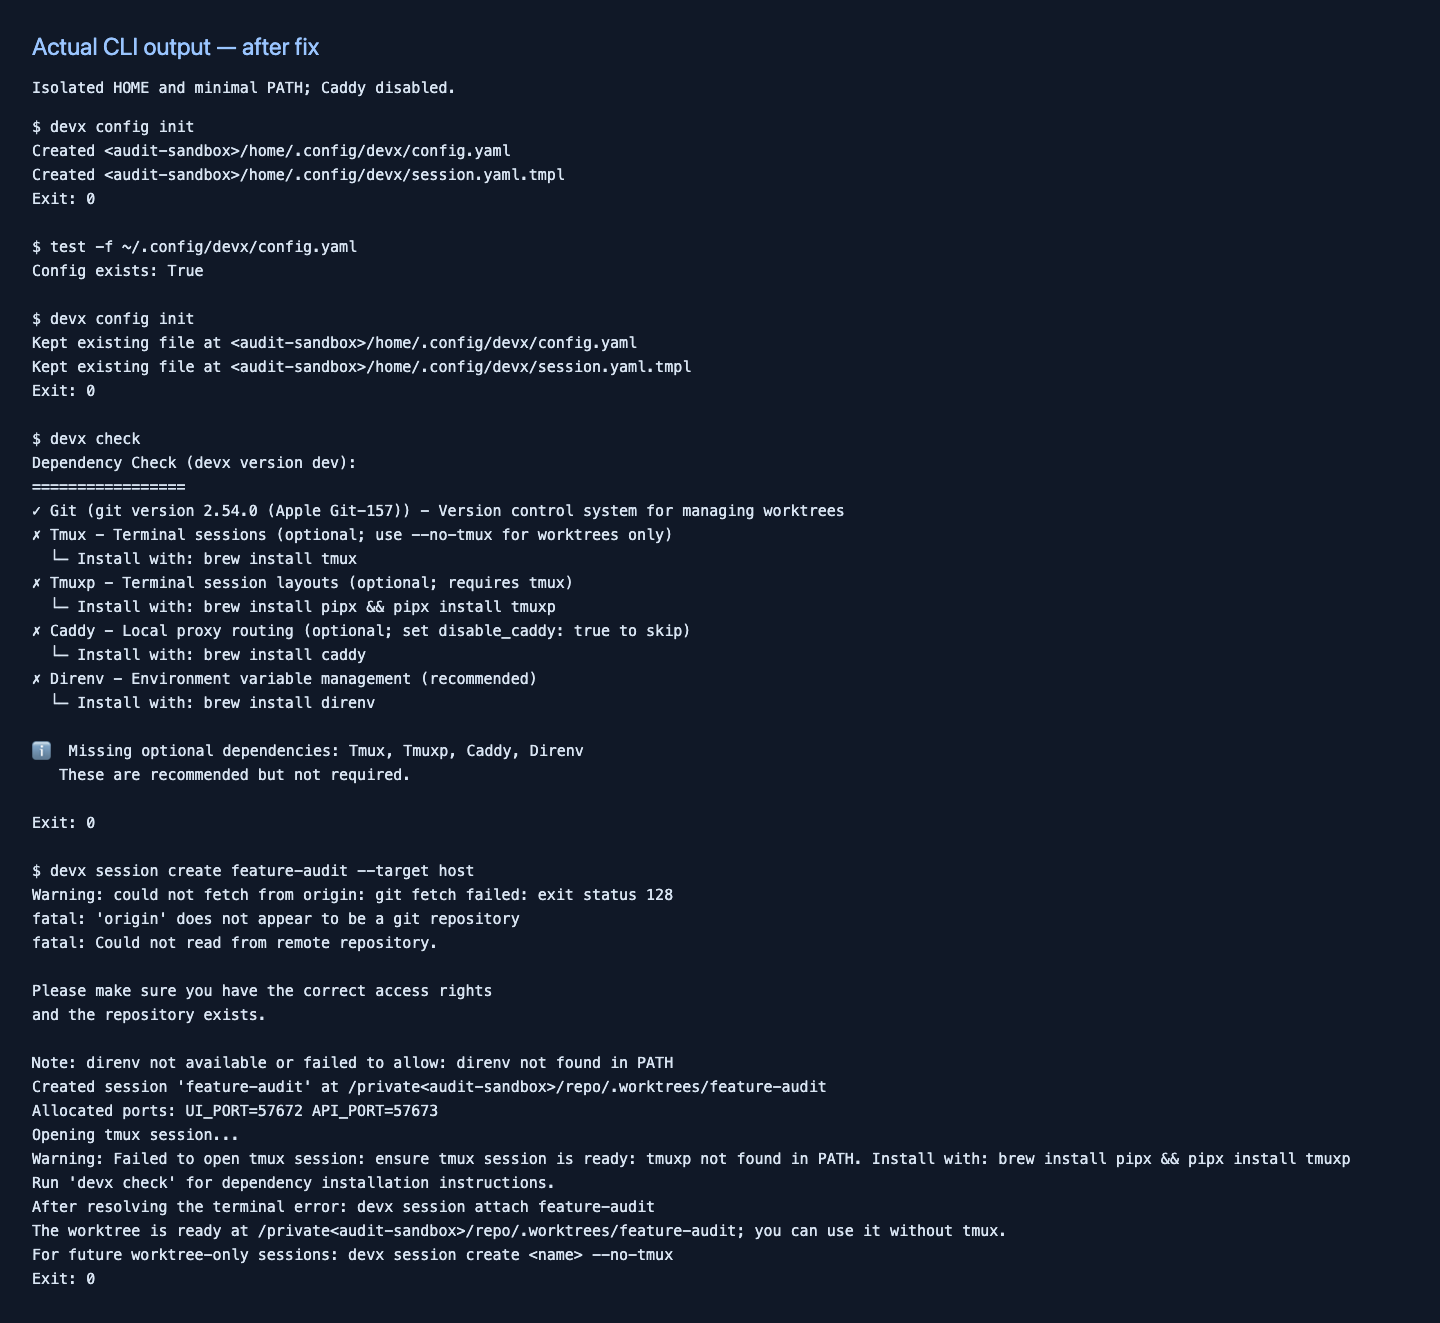
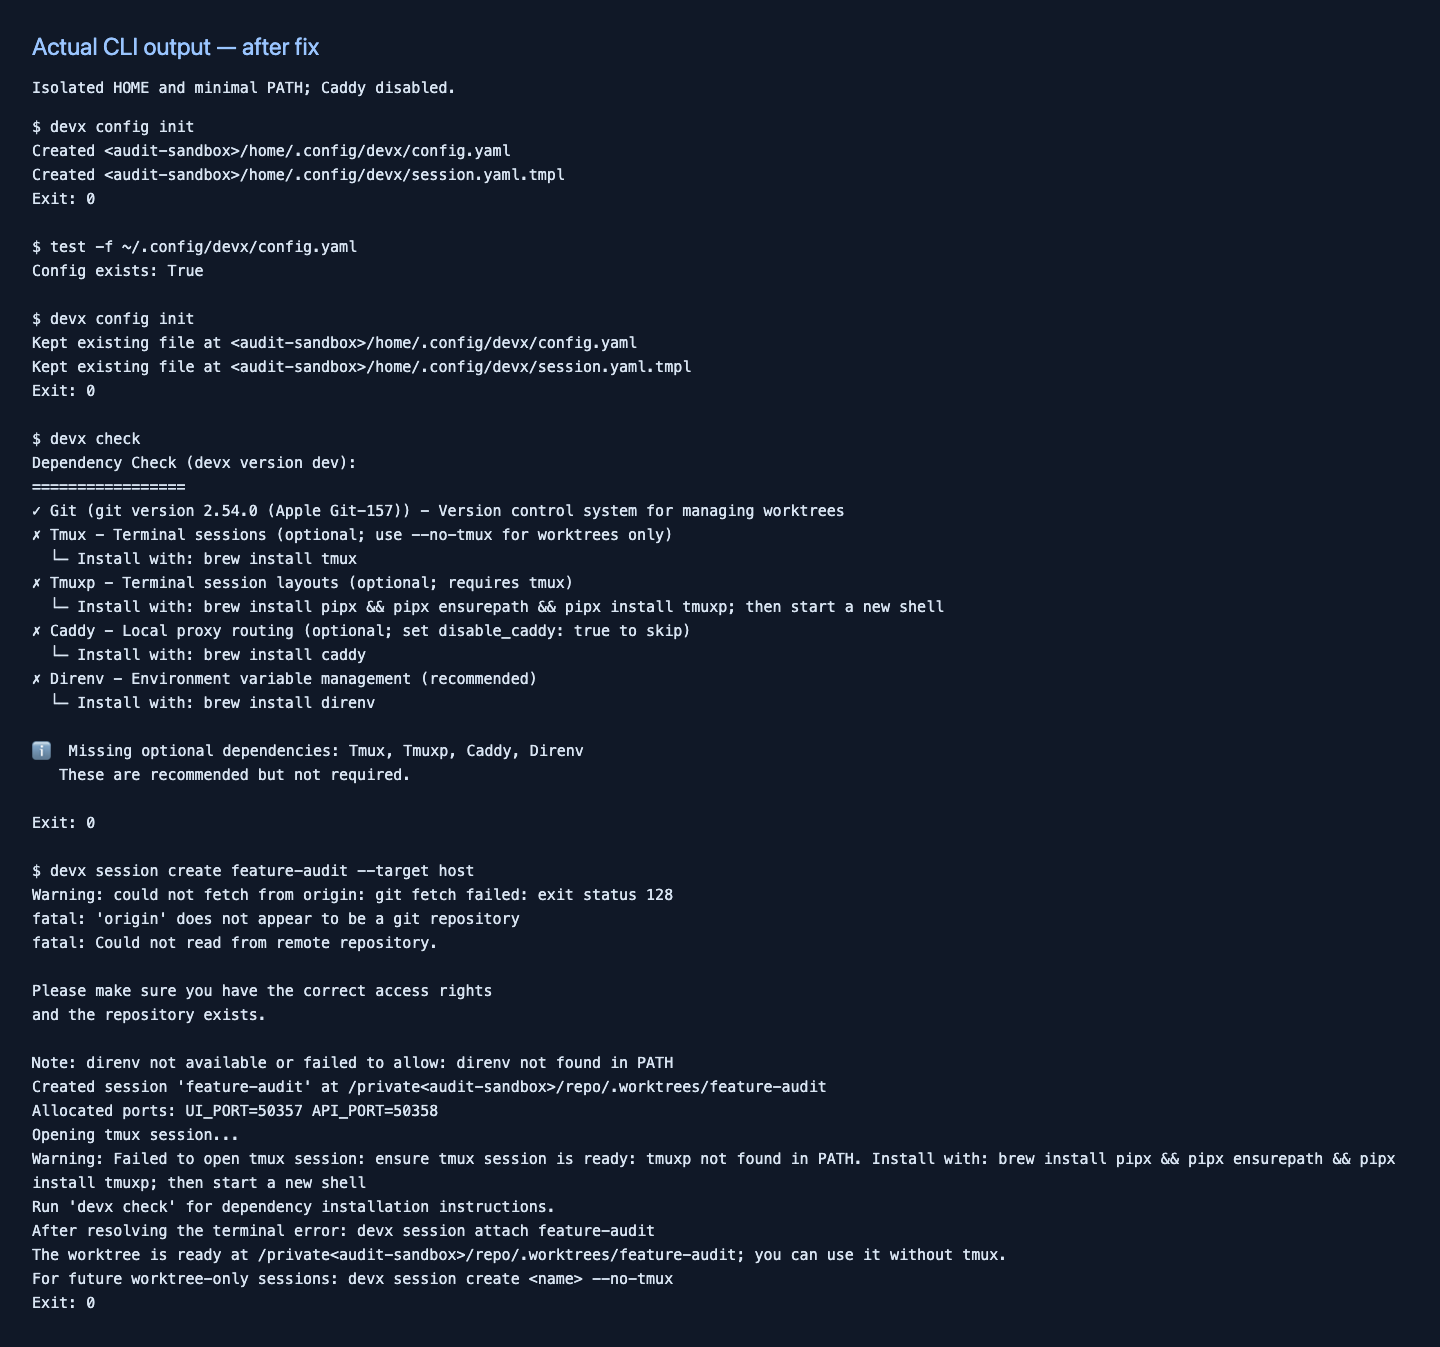
fix: preserve initialization retries and complete terminal setup guidance

diff --git a/cmd/config_init_test.go b/cmd/config_init_test.go
@@ -2,6 +2,7 @@ package cmd
 
 import (
 	"bytes"
+	"errors"
 	"os"
 	"path/filepath"
 	"strings"
@@ -120,5 +121,49 @@ func TestConfigInitRejectsDirectoryAtConfigPath(t *testing.T) {
 	t.Cleanup(func() { cfgFile = original })
 	if err := runConfigInit(&cobra.Command{}, nil); err == nil {
 		t.Fatal("directory reported as initialized config file")
+	}
+}
+
+type failingInitialConfigWriter struct{ writeErr, closeErr error }
+
+func (w failingInitialConfigWriter) Write(p []byte) (int, error) {
+	if w.writeErr != nil {
+		return 0, w.writeErr
+	}
+	return len(p), nil
+}
+func (w failingInitialConfigWriter) Close() error { return w.closeErr }
+
+func TestConfigInitDiscardsIncompleteFilesAndAllowsRetry(t *testing.T) {
+	for _, failure := range []string{"write", "close"} {
+		t.Run(failure, func(t *testing.T) {
+			path := filepath.Join(t.TempDir(), "config.yaml")
+			if err := os.WriteFile(path, []byte("partial"), 0600); err != nil {
+				t.Fatal(err)
+			}
+			injected := errors.New("disk write failure")
+			writer := failingInitialConfigWriter{}
+			if failure == "write" {
+				writer.writeErr = injected
+			} else {
+				writer.closeErr = injected
+			}
+			if err := writeAndCloseInitialConfigFile(path, writer, []byte("complete")); !errors.Is(err, injected) {
+				t.Fatalf("lost original error: %v", err)
+			}
+			if _, err := os.Stat(path); !os.IsNotExist(err) {
+				t.Fatalf("incomplete destination remains: %v", err)
+			}
+			if err := writeInitialConfigFile(&cobra.Command{}, path, []byte("complete"), 0600); err != nil {
+				t.Fatal(err)
+			}
+			data, err := os.ReadFile(path)
+			if err != nil {
+				t.Fatal(err)
+			}
+			if string(data) != "complete" {
+				t.Fatalf("retry did not restore complete config: %q", data)
+			}
+		})
 	}
 }

diff --git a/deps/checker.go b/deps/checker.go
@@ -4,6 +4,7 @@ import (
 	"fmt"
 	"os"
 	"os/exec"
+	"runtime"
 	"strings"
 
 	"github.com/jfox85/devx/version"
@@ -47,7 +48,7 @@ func GetDependencies() []Dependency {
 			Command:     "tmuxp",
 			Required:    false,
 			Description: "Terminal session layouts (optional; requires tmux)",
-			InstallHint: "Install with: brew install pipx && pipx install tmuxp",
+			InstallHint: TmuxpInstallHint(),
 		},
 		{
 			Name:        "Caddy",
@@ -64,6 +65,17 @@ func GetDependencies() []Dependency {
 			InstallHint: "Install with: brew install direnv",
 		},
 	}
+}
+
+// TmuxpInstallHint includes the PATH setup needed on fresh pipx installations.
+func TmuxpInstallHint() string { return tmuxpInstallHint(runtime.GOOS) }
+
+func tmuxpInstallHint(goos string) string {
+	prefix := "Install pipx using your system package manager (https://pipx.pypa.io/latest/how-to/install-pipx.html). Then run: "
+	if goos == "darwin" {
+		prefix = "Install with: brew install pipx && "
+	}
+	return prefix + "pipx ensurepath && pipx install tmuxp; then start a new shell"
 }
 
 // CheckDependency checks if a single dependency is available

diff --git a/cmd/config_init.go b/cmd/config_init.go
@@ -3,6 +3,7 @@ package cmd
 import (
 	"errors"
 	"fmt"
+	"io"
 	"os"
 	"path/filepath"
 
@@ -107,13 +108,23 @@ func writeInitialConfigFile(cmd *cobra.Command, path string, content []byte, mod
 	if err != nil {
 		return fmt.Errorf("create %s: %w", path, err)
 	}
+	if err := writeAndCloseInitialConfigFile(path, file, content); err != nil {
+		return err
+	}
+	fmt.Fprintf(cmd.OutOrStdout(), "Created %s\n", path)
+	return nil
+}
+
+// Discard only a newly created file on failure, so initialization can be retried.
+func writeAndCloseInitialConfigFile(path string, file io.WriteCloser, content []byte) error {
 	if _, err := file.Write(content); err != nil {
 		_ = file.Close()
+		_ = os.Remove(path)
 		return fmt.Errorf("write %s: %w", path, err)
 	}
 	if err := file.Close(); err != nil {
+		_ = os.Remove(path)
 		return fmt.Errorf("close %s: %w", path, err)
 	}
-	fmt.Fprintf(cmd.OutOrStdout(), "Created %s\n", path)
 	return nil
 }

diff --git a/deps/checker_test.go b/deps/checker_test.go
@@ -3,6 +3,7 @@ package deps
 import (
 	"os"
 	"os/exec"
+	"strings"
 	"testing"
 
 	"github.com/spf13/viper"
@@ -413,5 +414,19 @@ func TestVersionExtraction(t *testing.T) {
 	// The important thing is that CheckDependency doesn't crash when version check fails
 	if result.Error != nil {
 		t.Errorf("CheckDependency returned error for available command: %v", result.Error)
+	}
+}
+
+func TestTmuxpInstallHintIncludesPlatformAndPathSetup(t *testing.T) {
+	for _, goos := range []string{"darwin", "linux", "windows"} {
+		hint := tmuxpInstallHint(goos)
+		for _, want := range []string{"pipx ensurepath", "pipx install tmuxp", "start a new shell"} {
+			if !strings.Contains(hint, want) {
+				t.Errorf("%s missing %q: %s", goos, want, hint)
+			}
+		}
+		if goos != "darwin" && strings.Contains(hint, "brew install") {
+			t.Errorf("Homebrew required on %s: %s", goos, hint)
+		}
 	}
 }

diff --git a/session/tmuxp.go b/session/tmuxp.go
@@ -11,6 +11,7 @@ import (
 	"time"
 
 	"github.com/jfox85/devx/config"
+	"github.com/jfox85/devx/deps"
 	"gopkg.in/yaml.v3"
 )
 
@@ -152,7 +153,7 @@ func loadTmuxpTemplate(projectPath string) (string, error) {
 // session names containing "/" are not misinterpreted as pane separators.
 func launchTmuxDetached(worktreePath, sessionName string) error {
 	if _, err := exec.LookPath("tmuxp"); err != nil {
-		return fmt.Errorf("tmuxp not found in PATH. Install with: brew install pipx && pipx install tmuxp")
+		return fmt.Errorf("tmuxp not found in PATH. %s", deps.TmuxpInstallHint())
 	}
 
 	tmuxpConfigPath := filepath.Join(worktreePath, ".tmuxp.yaml")

diff --git a/README.md b/README.md
@@ -59,7 +59,10 @@ they do not install the development branch.
 ### Optional features
 - **tmux and tmuxp**: Required for persistent terminal sessions, but optional for
   worktree creation. macOS does not bundle tmux. On macOS, install with
-  `brew install tmux pipx` followed by `pipx install tmuxp`.
+  `brew install tmux pipx`, `pipx ensurepath`, and `pipx install tmuxp`, then start
+  a new shell so pipx's app directory is on PATH. On Linux, install tmux and pipx
+  with your distribution's package manager, then run the same two pipx commands
+  and start a new shell. See the [pipx installation guide](https://pipx.pypa.io/latest/how-to/install-pipx.html).
 - **direnv**: For automatic environment variable loading (`brew install direnv`).
 - **Caddy**: For local proxy routing (`brew install caddy`). Set `disable_caddy: true`
   in your config when you only need worktrees and ports.
